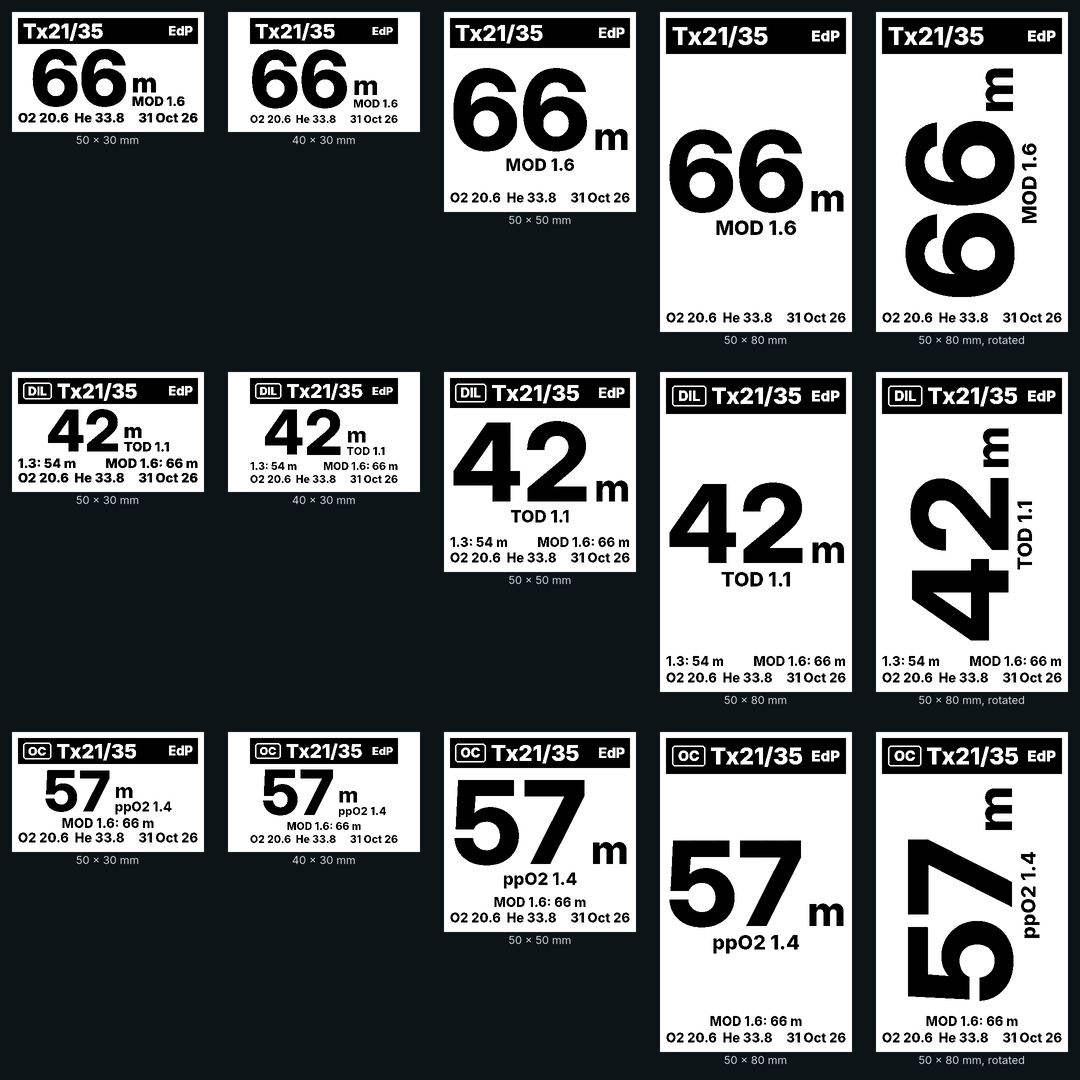
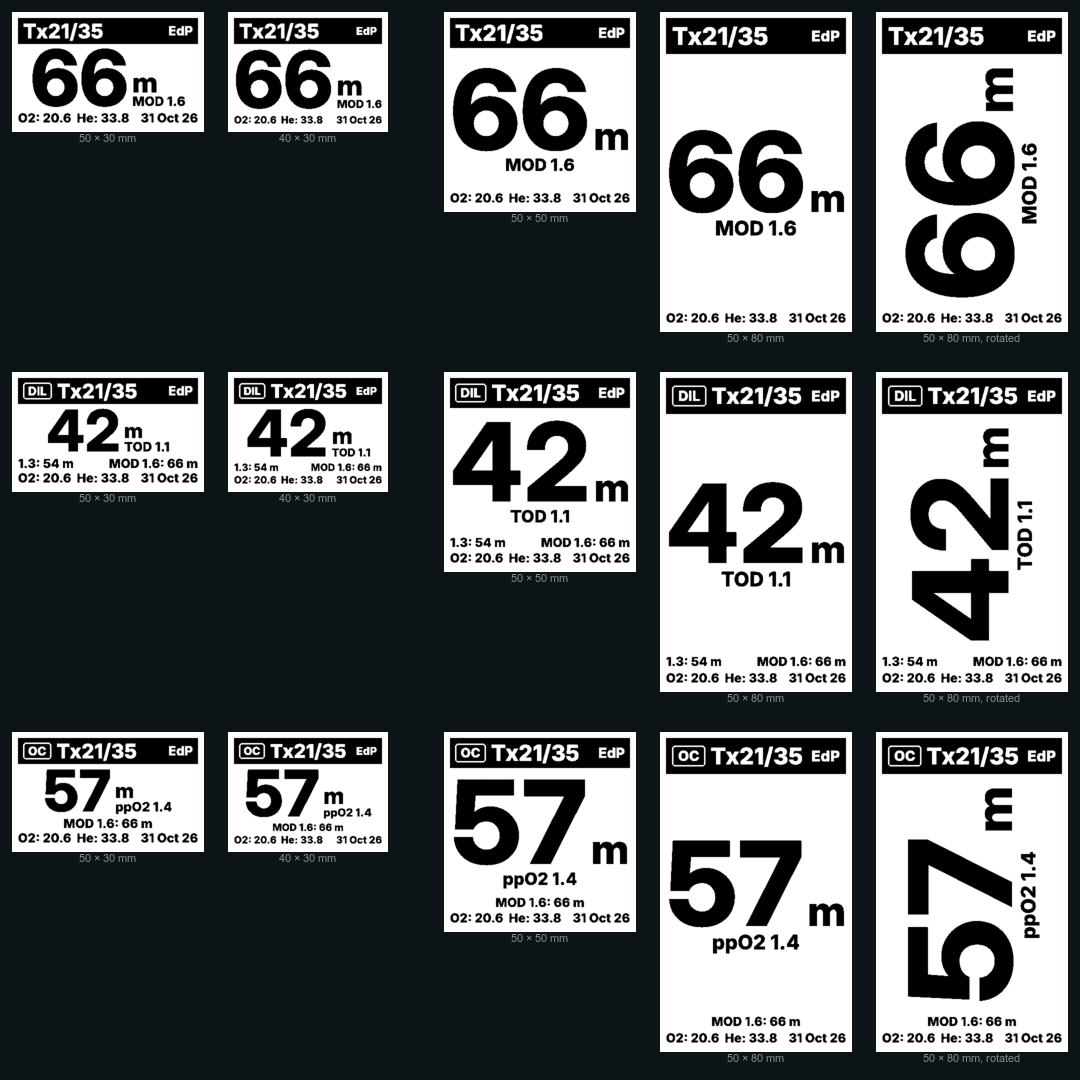
fix(labels): a colon after O2 and He in the label footer (#273)
The footer read "O2 22.2"; it now reads "O2: 22.2", and a trimix
"O2: 20.6  He: 33.8". Suggested by beta tester Roland Poptie. On a
40 x 30 mm trimix label the footer and diluent lines shrink slightly
to fit, through the existing fit step. Goldens regenerated on macOS;
the manual's label sheet is rebuilt from them.

diff --git a/test/labels/cylinder_label_test.dart b/test/labels/cylinder_label_test.dart
@@ -49,7 +49,7 @@ void main() {
       expect(DateFormat('d MMM yy').format(_when), '31 okt 26');
       final l = _label(_analysis(20.6, 33.8, desiredO2: 21, desiredHe: 35));
       expect(l.footerRight, '31 Oct 26');
-      expect(l.footerLeft, 'O2 20.6  He 33.8');
+      expect(l.footerLeft, 'O2: 20.6  He: 33.8');
       final dil = _label(_analysis(20.6, 33.8, role: GasRole.diluent));
       expect(dil.diluentLeft, '1.3: 54 m');
     });
@@ -339,7 +339,7 @@ void main() {
       expect(l.ocModLine, 'MOD 1.6: 66 m');
       expect(l.diluentLeft, isNull);
       expect(l.diluentRight, isNull);
-      expect(l.footerLeft, 'O2 20.6  He 33.8');
+      expect(l.footerLeft, 'O2: 20.6  He: 33.8');
     });
 
     test('Tx21/35 at 1.3: 53.1 m -> 54', () {
@@ -355,7 +355,7 @@ void main() {
       final at14 = _label(ean32);
       expect(at14.headlineText, '33');
       expect(at14.ocModLine, 'MOD 1.6: 39 m');
-      expect(at14.footerLeft, 'O2 32.0');
+      expect(at14.footerLeft, 'O2: 32.0');
       final at13 = _label(ean32, ocPpo2: 1.3);
       expect(at13.headlineText, '30');
       expect(at13.ocModLine, 'MOD 1.6: 39 m');
@@ -519,22 +519,22 @@ void main() {
     test('helium below the noise floor is left out of the footer', () {
       final l = _label(_analysis(20.6, 0.4));
       expect(l.hePercent, isNull);
-      expect(l.footerLeft, 'O2 20.6');
+      expect(l.footerLeft, 'O2: 20.6');
       expect(l.mixName, 'Air');
     });
 
     test('helium at the noise floor is shown', () {
       final l = _label(_analysis(20.6, 1.0));
       expect(l.hePercent, 1.0);
-      expect(l.footerLeft, 'O2 20.6  He 1.0');
+      expect(l.footerLeft, 'O2: 20.6  He: 1.0');
     });
 
     test('footer shows one decimal and two spaces before He', () {
       final l = _label(_analysis(20.6, 33.8));
       expect(l.o2Percent, 20.6);
       expect(l.hePercent, 33.8);
-      expect(l.footerLeft, 'O2 20.6  He 33.8');
-      expect(_label(_analysis(32.14, 0)).footerLeft, 'O2 32.1');
+      expect(l.footerLeft, 'O2: 20.6  He: 33.8');
+      expect(_label(_analysis(32.14, 0)).footerLeft, 'O2: 32.1');
     });
 
     test('the date is d MMM yy', () {
@@ -560,7 +560,7 @@ void main() {
       expect(l.headlineText, '66');
       expect(l.headlineCaption, 'MOD 1.6');
       expect(l.analysedBy, isNull);
-      expect(l.footerLeft, 'O2 20.6  He 33.8');
+      expect(l.footerLeft, 'O2: 20.6  He: 33.8');
       expect(l.footerRight, '31 Oct 26');
     });
 

diff --git a/lib/labels/cylinder_label.dart b/lib/labels/cylinder_label.dart
@@ -282,11 +282,11 @@ class CylinderLabel {
       ? 'MOD ${_ppo2Text(kOcModPpo2)}: ${_depthText(mod16Meters)}'
       : null;
 
-  /// `O2 20.6  He 33.8` (two spaces), or `O2 32.1` for a gas without helium.
+  /// `O2: 20.6  He: 33.8` (two spaces), or `O2: 32.1` for a gas without helium.
   String get footerLeft {
     final he = hePercent;
-    final o2Text = 'O2 ${o2Percent.toStringAsFixed(1)}';
-    return he == null ? o2Text : '$o2Text  He ${he.toStringAsFixed(1)}';
+    final o2Text = 'O2: ${o2Percent.toStringAsFixed(1)}';
+    return he == null ? o2Text : '$o2Text  He: ${he.toStringAsFixed(1)}';
   }
 
   /// The analysis date: `31 Oct 26`.
